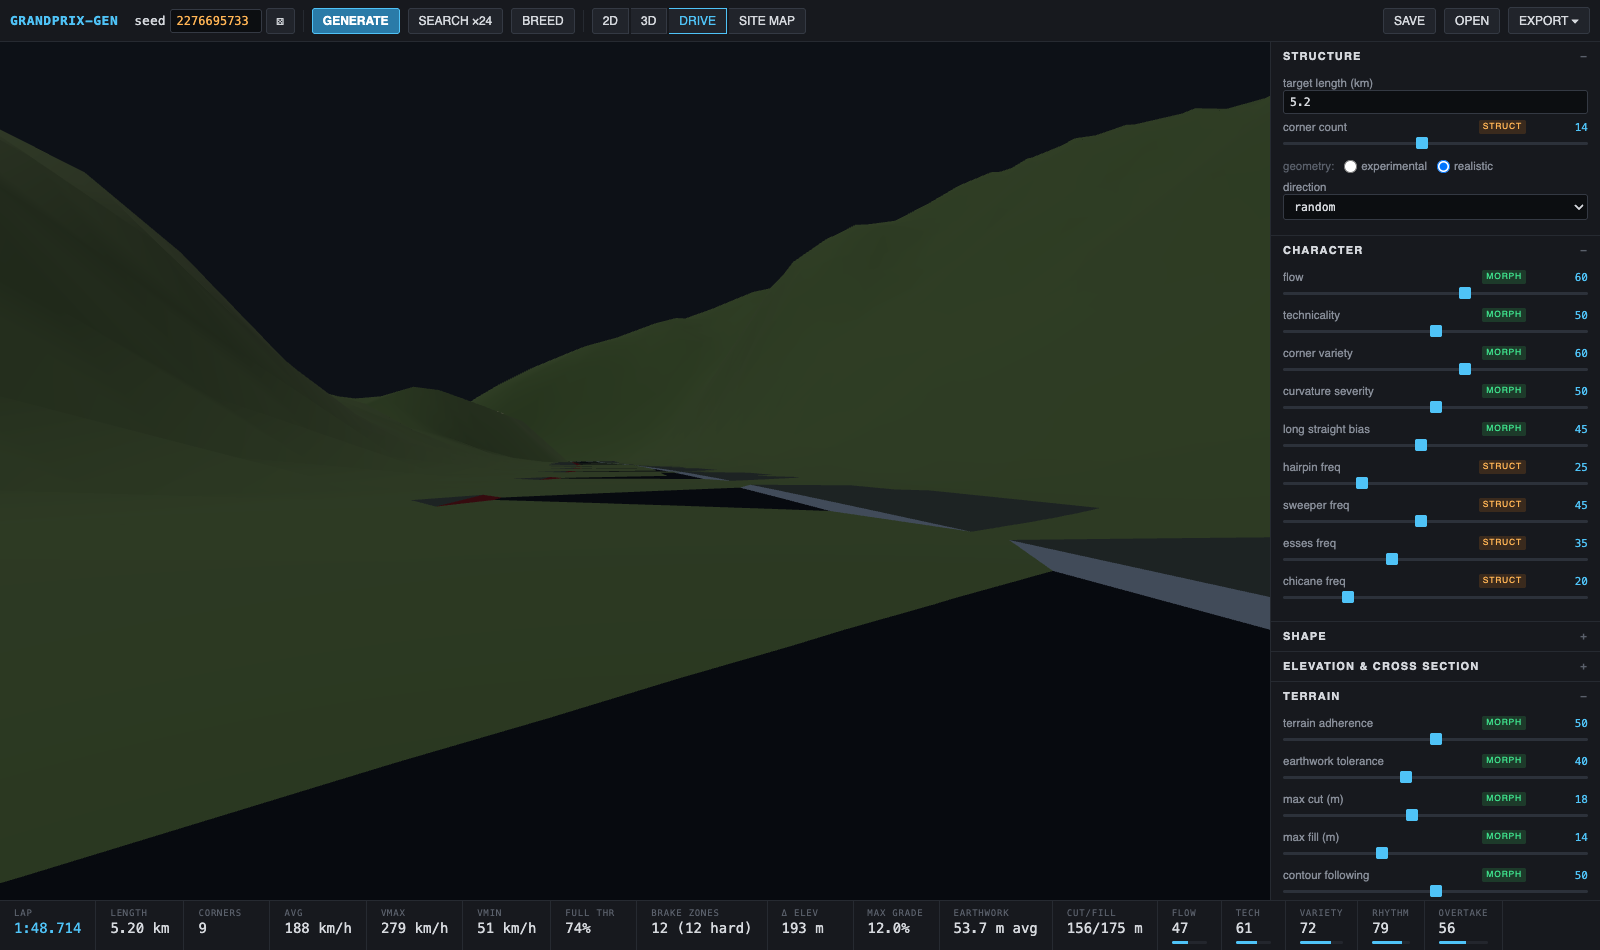
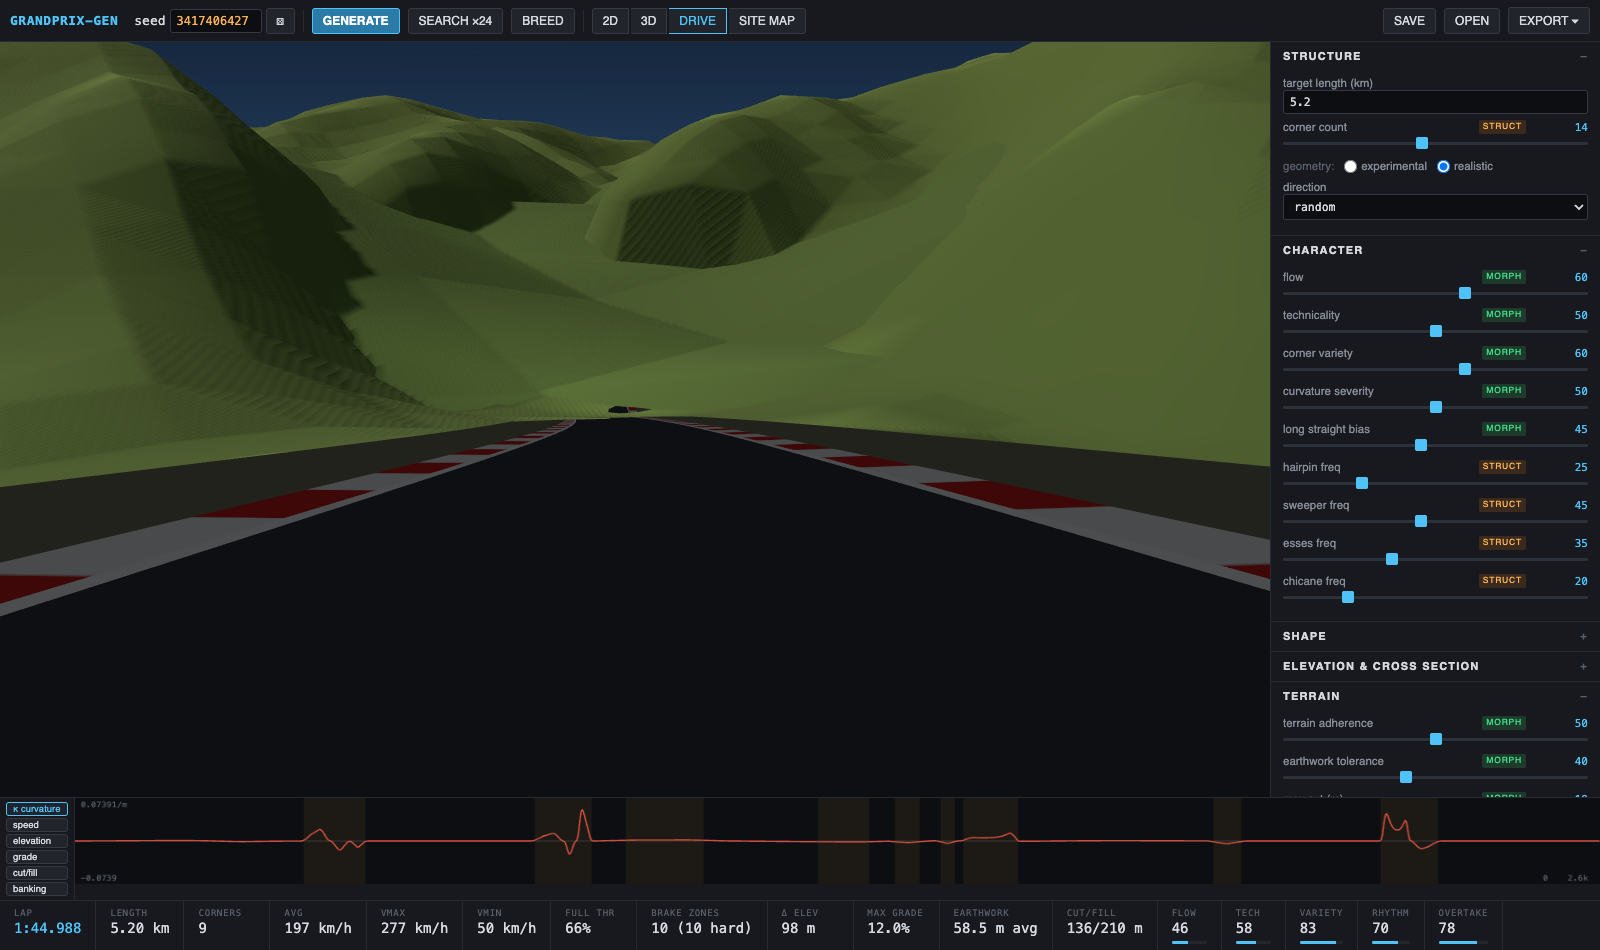
docs: refresh screenshots, document buildings/visuals

diff --git a/README.md b/README.md
@@ -12,7 +12,9 @@ exports (CAD / GIS / Civil 3D / Blender / simulation).
 
 ![2D design view with candidate search](docs/screenshot-2d.png)
 
-![terrain-mode 2D: a scouted mountain circuit](docs/screenshot-terrain-2d.png)
+![terrain-mode 2D: a circuit threading through a real town, contour lines + OSM buildings](docs/screenshot-terrain-2d.png)
+
+![3D: shadow-mapped terrain with surrounding context, OSM buildings, trees](docs/screenshot-terrain-3d.png)
 
 ![onboard drive mode on a mountain circuit](docs/screenshot-terrain-drive.png)
 
@@ -48,10 +50,13 @@ Everything is browser-local. No backend. Terrain DEM comes from
    place a site, load the Mapterhorn DEM, and generate circuits where terrain
    is a *design constraint*: horizontal layouts are scored by grade-feasible
    earthwork, the vertical profile hugs the ground inside a cut/fill band with
-   hard grade limits. **SCOUT REGION** searches a whole region for promising
-   sub-sites first (nested site→circuit optimization).
+   hard grade limits. OSM building footprints render as context and (soft/hard)
+   steer generation around development. **SCOUT REGION** searches a whole
+   region for promising sub-sites first (nested site→circuit optimization).
 7. **Views** — 2D design view (heat layers: curvature / speed / elevation /
-   grade / cut-fill / banking), 3D view (banked ribbon, carved terrain, orbit),
+   grade / cut-fill / banking; contour lines; building footprints), 3D view
+   (banked ribbon, striped kerbs where the car actually uses them, edge lines,
+   carved + shadowed terrain, surrounding context, trees, buildings, water),
    DRIVE mode (onboard lap at the estimated speed profile).
 8. **Export** — `.track.json` (lossless project), SVG, CSV, GeoJSON, DXF,
    LandXML (Civil 3D), OBJ, GLB, Blender reconstruction `.py`, OpenDRIVE
